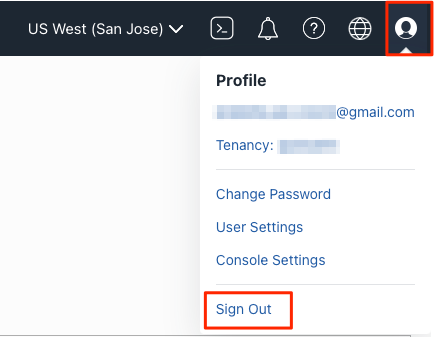
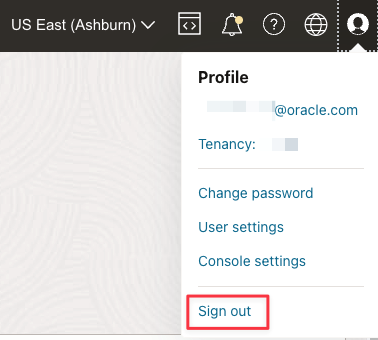
Updated some images to redwood

diff --git a/oci-adb-iam/setup-environment-and-cloud-shell/setup-environment-and-cloud-shell.md b/oci-adb-iam/setup-environment-and-cloud-shell/setup-environment-and-cloud-shell.md
@@ -126,11 +126,11 @@ You may now **proceed to the next lab.**
 
    b) Click **Create/Reset Password**.  
 
-      ![Reset password](https://oracle-livelabs.github.io/security/identity-access-management/iam/images/image009.png)
+      ![New User](images/new-user.png)
 
    c) In the dialog, click **Create/Reset Password**.
 
-      ![Reset password](https://oracle-livelabs.github.io/security/identity-access-management/iam/images/create-password.png)
+      ![Reset password](images/reset-password.png)
 
    d) The new one-time password is displayed.
       Click the **Copy** link and then click **Close**. Make sure to copy this password to your notepad.
@@ -141,7 +141,7 @@ You may now **proceed to the next lab.**
 
    a) Click **Sign Out** from the user menu and log out of the admin user account completely.
 
-      ![Sign out](https://oracle-livelabs.github.io/security/identity-access-management/iam/images/sign-out.png)
+      ![Sign out](images/sign-out.png)
 
    b) Open a supported browser and go to the Console URL:  [https://cloud.oracle.com](https://cloud.oracle.com).
 
